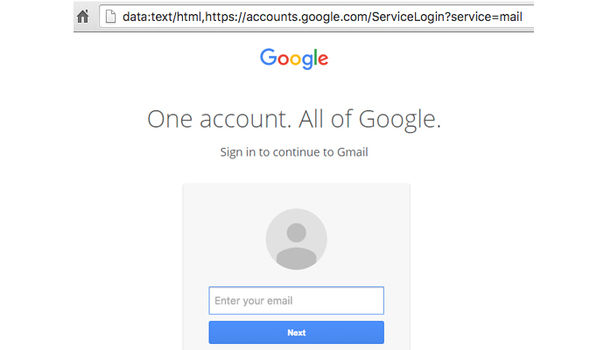
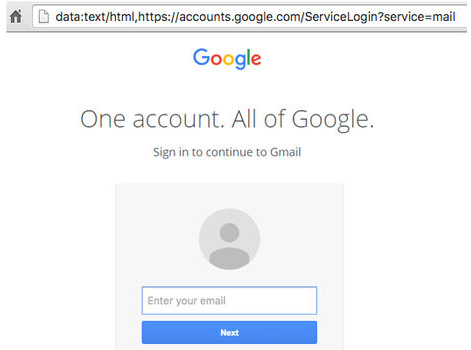
Site updated: 2017-01-25 11:23:04

diff --git a/2017/01/25/Gmail-phishing-account/index.html b/2017/01/25/Gmail-phishing-account/index.html
@@ -14,7 +14,7 @@ If the user clicks on the attached image, a new window will be opened asking for
 <meta property="og:description" content="Usually the email comes from a known account and have an attachment image resembling a PDF file.
 If the user clicks on the attached image, a new window will be opened asking for the user to login usin">
 <meta property="og:image" content="http://localhost/hexoblog/public/postimg/gmail-phishing-scam.jpg">
-<meta property="og:updated_time" content="2017-01-25T08:43:33.434Z">
+<meta property="og:updated_time" content="2017-01-25T10:18:13.802Z">
 <meta name="twitter:card" content="summary">
 <meta name="twitter:title" content="Gmail phishing account">
 <meta name="twitter:description" content="Usually the email comes from a known account and have an attachment image resembling a PDF file.
@@ -138,7 +138,7 @@ If the user clicks on the attached image, a new window will be opened asking for
       
         <p>Usually the email comes from a known account and have an attachment image resembling a PDF file.</p>
 <p>If the user clicks on the attached image, a new window will be opened asking for the user to login using his Gmail account.</p>
-<p><a href="#" class="image"><img src="postimg/gmail-phishing-scam.jpg" width="100%" alt=""></a></p>
+<p><a href="#" class="image"><img src="postimg/gmail-phishing-scam.jpg" alt=""></a></p>
 <p>The address bar says “account.gmail.com” so it looks legit, but the address begins with “data: text/html” and points to a fake login page.</p>
 <p>If you insert your login details the hackers steal your account.</p>
 
@@ -151,7 +151,7 @@ If the user clicks on the attached image, a new window will be opened asking for
     
 
     <footer class="article-footer">
-      <a data-url="http://localhost/hexoblog/public/2017/01/25/Gmail-phishing-account/" data-id="ciycs1ic70003d0hskxtb8mun" class="article-share-link">
+      <a data-url="http://localhost/hexoblog/public/2017/01/25/Gmail-phishing-account/" data-id="ciycspalg0002ashsq0wf9bvz" class="article-share-link">
         <i class="fa fa-share"></i> Share
       </a>
       

diff --git a/index.html b/index.html
@@ -147,7 +147,7 @@
     
 
     <footer class="article-footer">
-      <a data-url="http://localhost/hexoblog/public/2017/01/25/From-local-to-cloud-sync-with-RClone/" data-id="ciycs1ic70002d0hsadhlyzsa" class="article-share-link">
+      <a data-url="http://localhost/hexoblog/public/2017/01/25/From-local-to-cloud-sync-with-RClone/" data-id="ciycspalg0003ashslz3whx8s" class="article-share-link">
         <i class="fa fa-share"></i> Share
       </a>
       
@@ -189,7 +189,7 @@
       
         <p>Usually the email comes from a known account and have an attachment image resembling a PDF file.</p>
 <p>If the user clicks on the attached image, a new window will be opened asking for the user to login using his Gmail account.</p>
-<p><a href="#" class="image"><img src="postimg/gmail-phishing-scam.jpg" width="100%" alt=""></a></p>
+<p><a href="#" class="image"><img src="postimg/gmail-phishing-scam.jpg" alt=""></a></p>
 <p>The address bar says “account.gmail.com” so it looks legit, but the address begins with “data: text/html” and points to a fake login page.</p>
 <p>If you insert your login details the hackers steal your account.</p>
 
@@ -202,7 +202,7 @@
     
 
     <footer class="article-footer">
-      <a data-url="http://localhost/hexoblog/public/2017/01/25/Gmail-phishing-account/" data-id="ciycs1ic70003d0hskxtb8mun" class="article-share-link">
+      <a data-url="http://localhost/hexoblog/public/2017/01/25/Gmail-phishing-account/" data-id="ciycspalg0002ashsq0wf9bvz" class="article-share-link">
         <i class="fa fa-share"></i> Share
       </a>
       
@@ -279,7 +279,7 @@
     
 
     <footer class="article-footer">
-      <a data-url="http://localhost/hexoblog/public/2017/01/24/CSS-child-and-adjacent-sibling-combinator/" data-id="ciycs1ibr0000d0hsvib44tlr" class="article-share-link">
+      <a data-url="http://localhost/hexoblog/public/2017/01/24/CSS-child-and-adjacent-sibling-combinator/" data-id="ciycspal10000ashsva1jnhqn" class="article-share-link">
         <i class="fa fa-share"></i> Share
       </a>
       

diff --git a/2017/01/25/From-local-to-cloud-sync-with-RClone/index.html b/2017/01/25/From-local-to-cloud-sync-with-RClone/index.html
@@ -151,7 +151,7 @@ The utility is available for Windows/Linux/Mac and supports ma">
     
 
     <footer class="article-footer">
-      <a data-url="http://localhost/hexoblog/public/2017/01/25/From-local-to-cloud-sync-with-RClone/" data-id="ciycs1ic70002d0hsadhlyzsa" class="article-share-link">
+      <a data-url="http://localhost/hexoblog/public/2017/01/25/From-local-to-cloud-sync-with-RClone/" data-id="ciycspalg0003ashslz3whx8s" class="article-share-link">
         <i class="fa fa-share"></i> Share
       </a>
       

diff --git a/2017/01/24/CSS-child-and-adjacent-sibling-combinator/index.html b/2017/01/24/CSS-child-and-adjacent-sibling-combinator/index.html
@@ -183,7 +183,7 @@ ol &amp;gt; li {
     
 
     <footer class="article-footer">
-      <a data-url="http://localhost/hexoblog/public/2017/01/24/CSS-child-and-adjacent-sibling-combinator/" data-id="ciycs1ibr0000d0hsvib44tlr" class="article-share-link">
+      <a data-url="http://localhost/hexoblog/public/2017/01/24/CSS-child-and-adjacent-sibling-combinator/" data-id="ciycspal10000ashsva1jnhqn" class="article-share-link">
         <i class="fa fa-share"></i> Share
       </a>
       

diff --git a/css/myblog.css b/css/myblog.css
@@ -39,6 +39,10 @@ h6, .h6 {
 	margin-bottom: 50px;
 }
 
+.article-entry img {
+    margin: auto auto auto 0px;
+}
+
 .sidebar-module-list-count {
 	margin-left: 10px;
 }
